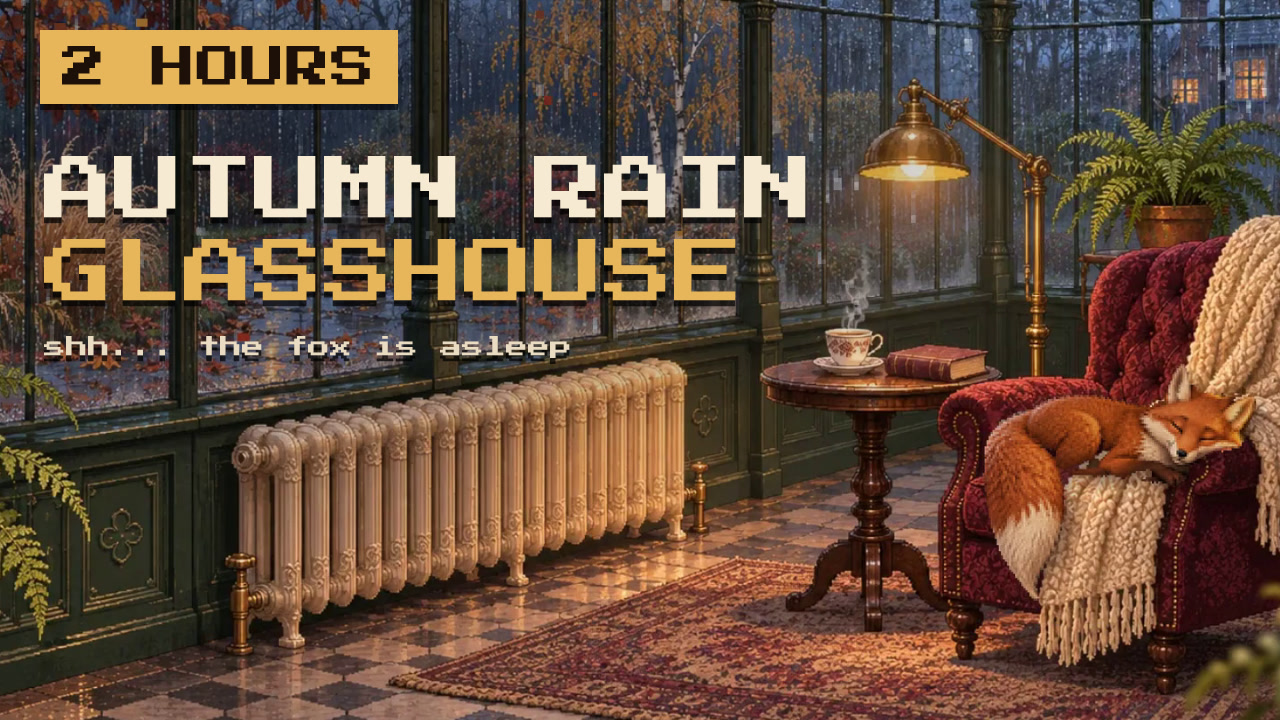
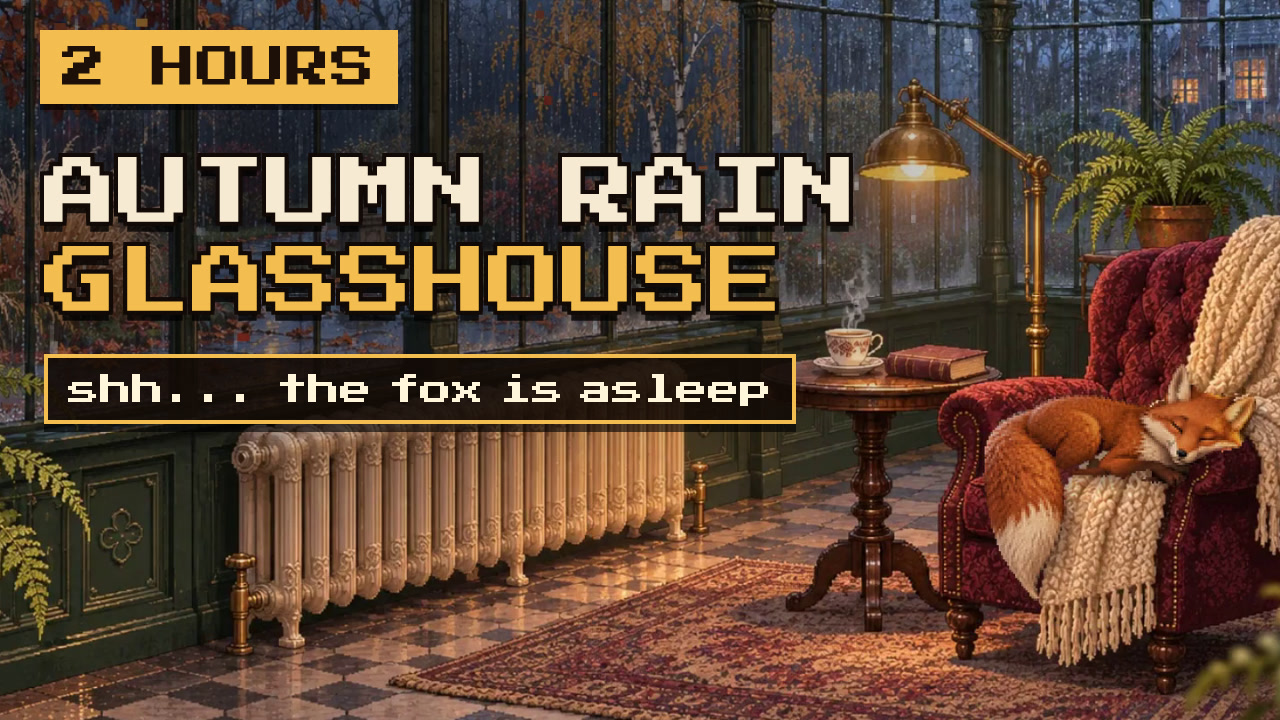
Thumbnail: bigger boxed subtitle and outlined title
Claude-Session: https://claude.ai/code/session_01VuAxVZNSoXwkeJokJbncck

Changed region(s): [[0.0312, 0.1833, 0.6875, 0.6111], [0.1875, 0.0, 0.2188, 0.0306]]

diff --git a/channel/thumbnail-template/thumb.html b/channel/thumbnail-template/thumb.html
@@ -6,8 +6,8 @@ html,body{margin:0;width:1280px;height:720px;overflow:hidden;background:#0a0d14}
 canvas{position:absolute;left:0;top:0;width:1280px;height:720px;image-rendering:pixelated}
 .shade{position:absolute;left:0;top:0;width:1280px;height:720px;background:radial-gradient(ellipse 820px 400px at 300px 150px,rgba(8,8,10,.86) 0%,rgba(8,8,10,.6) 45%,rgba(8,8,10,0) 100%)}
 .txt{position:absolute;left:44px;top:150px;font-family:"Pixelify Sans",monospace;color:#f6ead2;text-shadow:0 6px 0 rgba(0,0,0,.7)}
-.big{font-family:"Press Start 2P",monospace;font-size:70px;line-height:1.18}
-.sub{font-family:"Press Start 2P",monospace;font-size:22px;line-height:1.3;color:#eadcc2;margin-top:18px}
+.big{font-family:"Press Start 2P",monospace;font-size:74px;line-height:1.2;text-shadow:-4px 0 0 #120a06,4px 0 0 #120a06,0 -4px 0 #120a06,0 4px 0 #120a06,-4px -4px 0 #120a06,4px -4px 0 #120a06,-4px 4px 0 #120a06,4px 4px 0 #120a06,0 10px 0 rgba(0,0,0,.75)}
+.sub{display:inline-block;font-family:"Press Start 2P",monospace;font-size:32px;word-spacing:-16px;line-height:1;color:#fff6dc;margin-top:26px;padding:16px 20px 14px;background:rgba(18,10,6,.88);border:4px solid var(--accent,#f2a65a);box-shadow:0 8px 0 rgba(0,0,0,.6);text-shadow:none}
 .badge{position:absolute;top:30px;left:40px;font-family:"Press Start 2P",monospace;font-size:44px;line-height:1;letter-spacing:.02em;color:#1c1008;padding:16px 22px 14px;box-shadow:0 6px 0 rgba(0,0,0,.55)}
 </style></head><body>
 <div class="bg" id="bg"></div><canvas id="c" width="320" height="180"></canvas><div class="shade"></div>
@@ -21,7 +21,7 @@ bg.style.backgroundImage = `url(${C.bg})`; bg.style.backgroundSize = `${1920 * s
 bg.style.backgroundPosition = `${-C.crop[0] * s}px ${-C.crop[1] * s}px`;
 if (C.shade !== undefined) document.querySelector('.shade').style.opacity = C.shade;
 for (const k of ['l1', 'l2', 'sub']) document.getElementById(k).textContent = C[k];
-document.getElementById('l2').style.color = C.accent; document.getElementById('badge').style.background = C.accent;
+document.getElementById('l2').style.color = C.accent; document.documentElement.style.setProperty('--accent', C.accent); document.getElementById('badge').style.background = C.accent;
 if (C.bolt) {
   const c = document.getElementById('c').getContext('2d'), [bx, by, bw, bh] = C.bolt;
   const g = c.createRadialGradient(bx + bw / 2, by + bh / 2, 4, bx + bw / 2, by + bh / 2, bw);

diff --git a/channel/thumbnail-template/README.md b/channel/thumbnail-template/README.md
@@ -5,7 +5,7 @@
 Config used for each episode:
 
 - Cartographer's Cottage: `{"bg":"thumbnail-bg.png","crop":[560,90,1360],"l1":"STORMY SEA","l2":"COTTAGE","sub":"rain · waves · distant thunder","accent":"#8fc3d6","bolt":[226,5,60,48]}`
-- Botanist's Glasshouse: `{"bg":"thumbnail-bg.png","crop":[270,250,1440],"l1":"AUTUMN RAIN","l2":"GLASSHOUSE","sub":"shh... the fox is asleep","accent":"#e8b65a","bolt":null,"shade":0.55}`
+- Botanist's Glasshouse: `{"bg":"thumbnail-bg.png","crop":[270,250,1440],"l1":"AUTUMN RAIN","l2":"GLASSHOUSE","sub":"shh... the fox is asleep","accent":"#f4bd4f","bolt":null,"shade":0.75}`
 
 `crop` is x, y and width in the 1920×1080 frame (height follows 16:9). `bolt` draws a lightning bolt inside a
 window pane, given as x, y, w, h on a 320×180 grid. `shade` (0–1) sets how dark the panel behind the text is.
